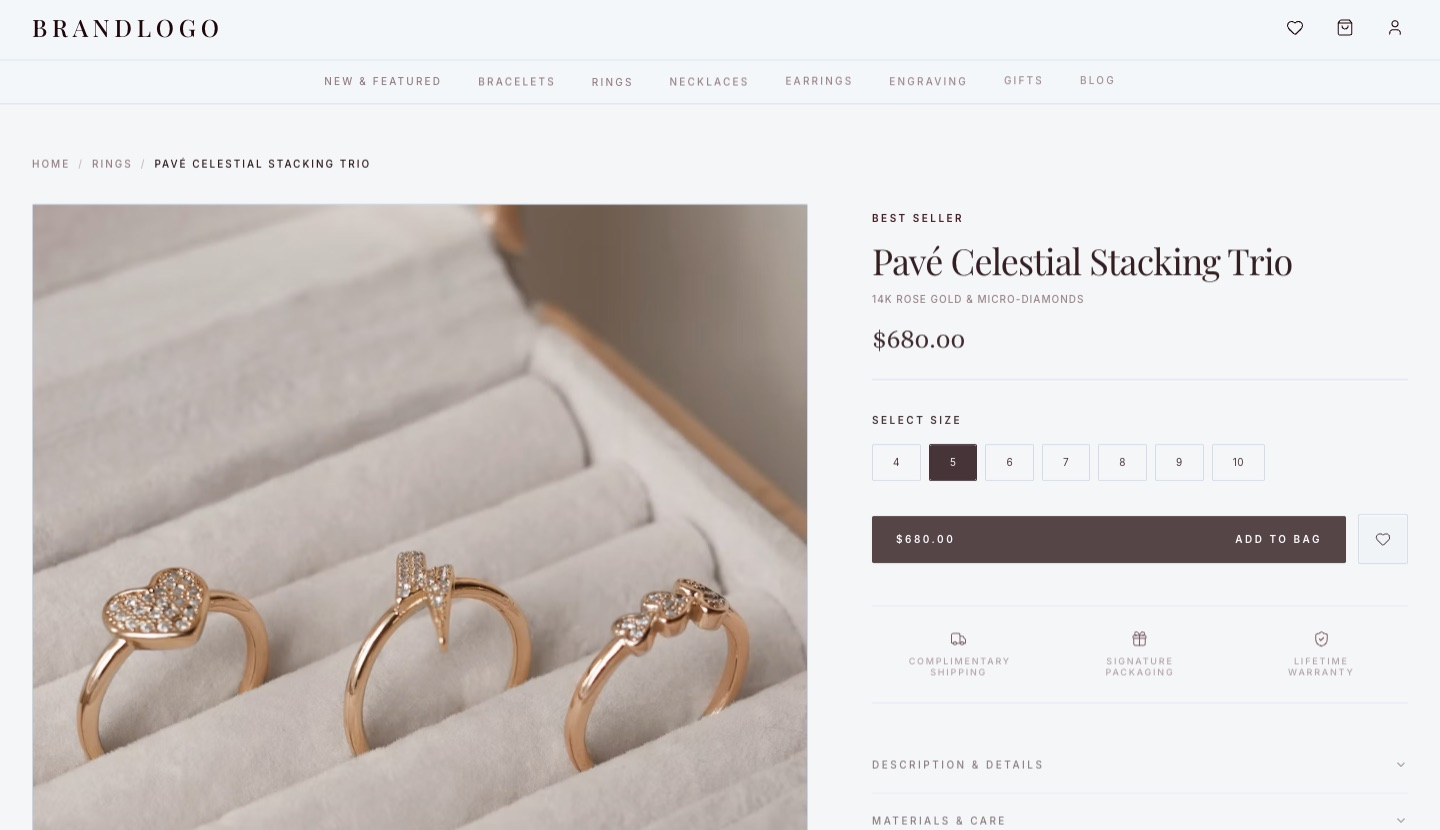
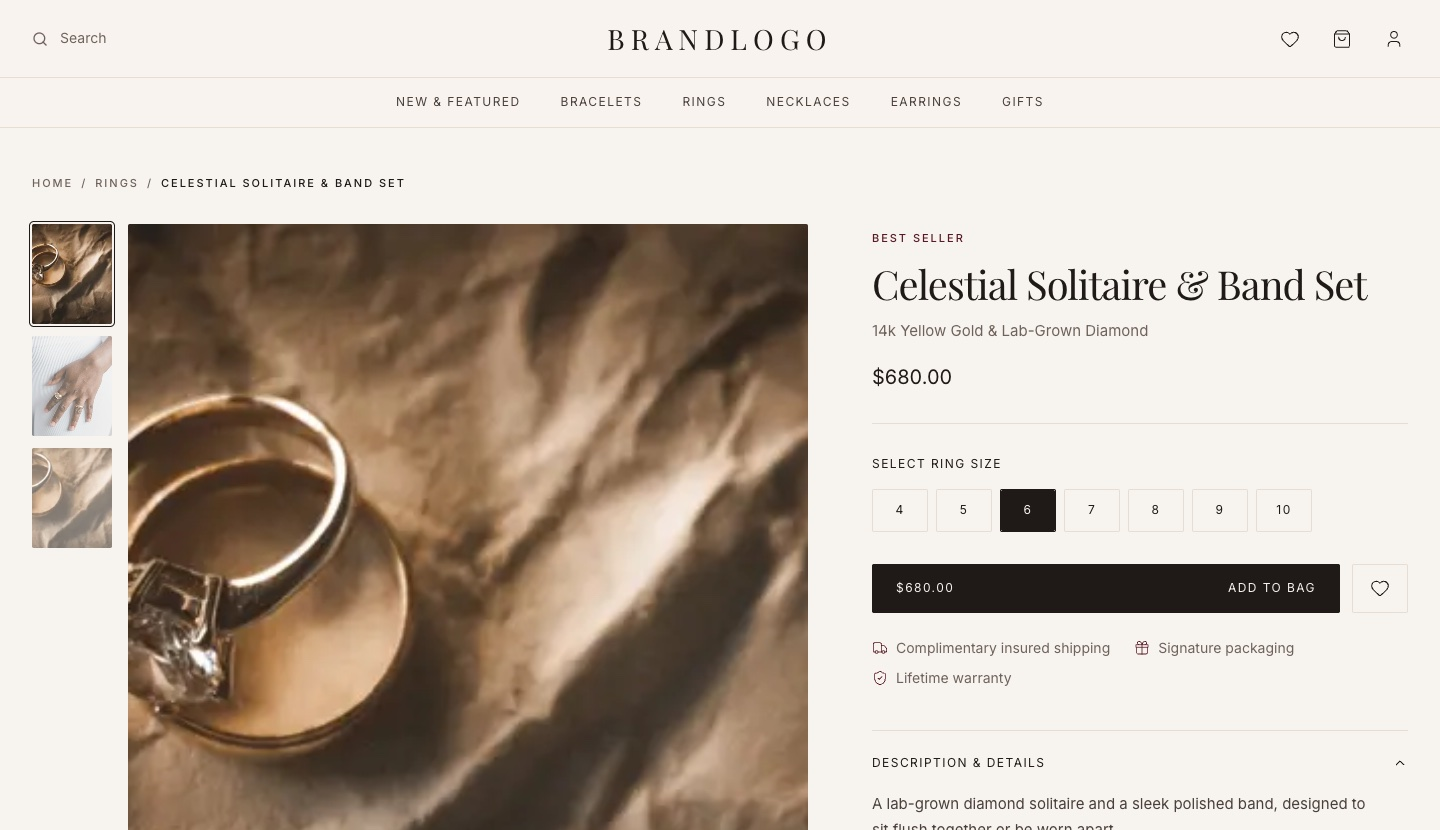
minor updates

diff --git a/src/app/about/page.tsx b/src/app/about/page.tsx
@@ -26,7 +26,7 @@ const path = [
 const strengths = [
 	{ title: "I design", text: "Layout, color, and type come first, so what I ship looks intentional.", color: "bg-sun" },
 	{ title: "I write", text: "Clear copy and clear code. Both should be easy to read.", color: "bg-primary" },
-	{ title: "I don't quit", text: "I rebuilt my career from zero once. Hard bugs don't scare me.", color: "bg-lilac" },
+	{ title: "I ship", text: "Launches, DNS, and migrations are part of the job. I take sites all the way to live.", color: "bg-lilac" },
 ];
 
 const photos = [

diff --git a/src/data/projects.ts b/src/data/projects.ts
@@ -130,11 +130,11 @@ export const projects: Project[] = [
 		gallery: [
 			{
 				src: "/images/projects/jewelry-store.jpg",
-				alt: "Jewelry store home page with collection hero and category tiles",
+				alt: "Jewelry store home page with a full-width collection hero, search, and category navigation",
 			},
 			{
 				src: "/images/projects/jewelry-store-product.jpg",
-				alt: "Product page with size selector and add to bag button",
+				alt: "Product page with an image gallery, a ring size selected, and the add to bag button",
 			},
 		],
 	},
